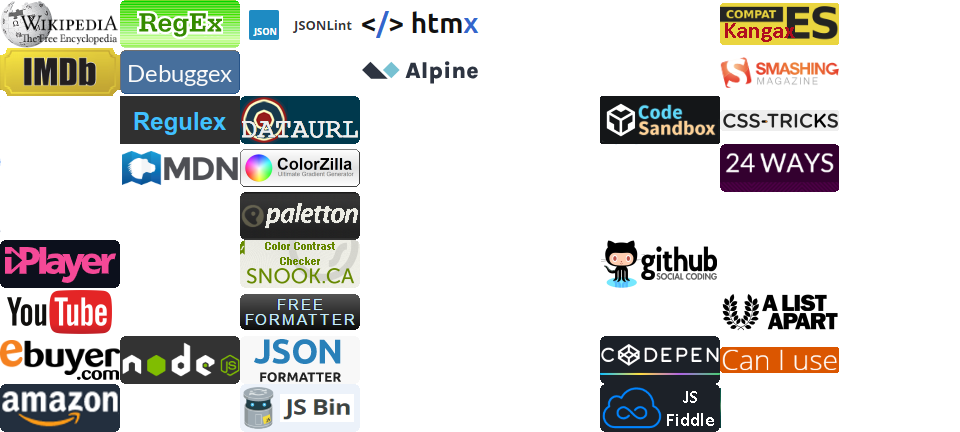
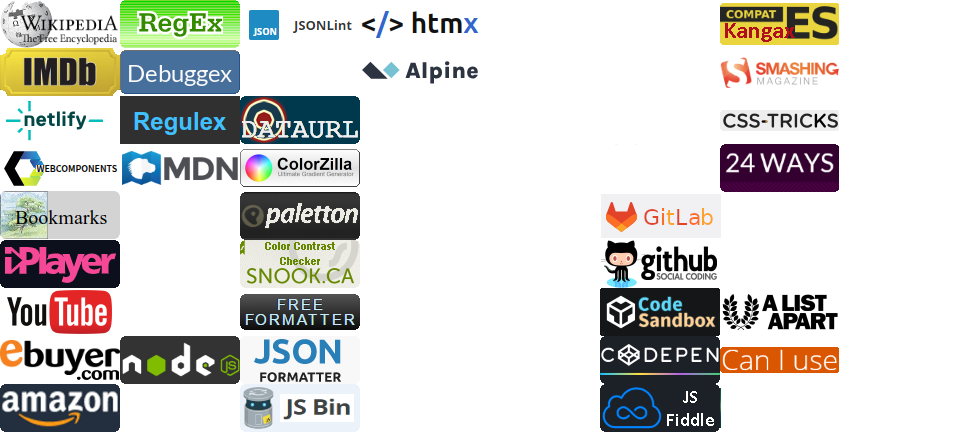
More bookmarks added

diff --git a/index.html b/index.html
@@ -14,12 +14,7 @@
         <section>
           <a
             href="/Archive/bookmarks.html"
-            style="
-              background-color: lightgrey;
-              background-image: url('./Images/gilmore.ico');
-              background-repeat: no-repeat;
-            "
-            text="Bookmarks"
+            style="background-position: 960px 240px"
           ></a>
           <a
             href="https://en.wikipedia.org/wiki/Main_Page"
@@ -48,8 +43,39 @@
             href="https://caniuse.com/"
             style="background-position: 240px 96px"
           ></a>
+          <a
+            href="https://www.webcomponents.org/"
+            style="background-position: 960px 288px"
+          ></a>
           <hr />
+
           <h2>Tools</h2>
+          <a
+            href="https://app.netlify.com/teams/tgjgilmore/sites"
+            style="background-position: 960px 336px"
+          ></a>
+
+          <a
+            href="https://github.com/TracyGJG"
+            style="background-position: 360px 192px"
+          ></a>
+          <a
+            href="https://gitlab.com/"
+            style="background-position: 360px 240px"
+          ></a>
+          <a
+            href="https://codesandbox.io/dashboard/recent?workspace=ws_LRws8573XJNDtDXAgUGmjF"
+            style="background-position: 360px 144px"
+          ></a>
+          <a
+            href="https://codepen.io/your-work"
+            style="background-position: 360px 96px"
+          ></a>
+          <a
+            href="https://jsfiddle.net/"
+            style="background-position: 360px 48px"
+          ></a>
+
           <a
             href="https://jex.im/regulex/#!flags=&re=%5E(a%7Cb)*%3F%24"
             style="background-position: 840px 336px"

diff --git a/bookmarks.css b/bookmarks.css
@@ -75,7 +75,7 @@ a {
   margin: 0.5em;
   background-image: url("./Images/QuickLinks.png");
   position: relative;
-  border-radius: 4px;
+  border-radius: 6px;
 
   &::after {
     content: attr(text);
